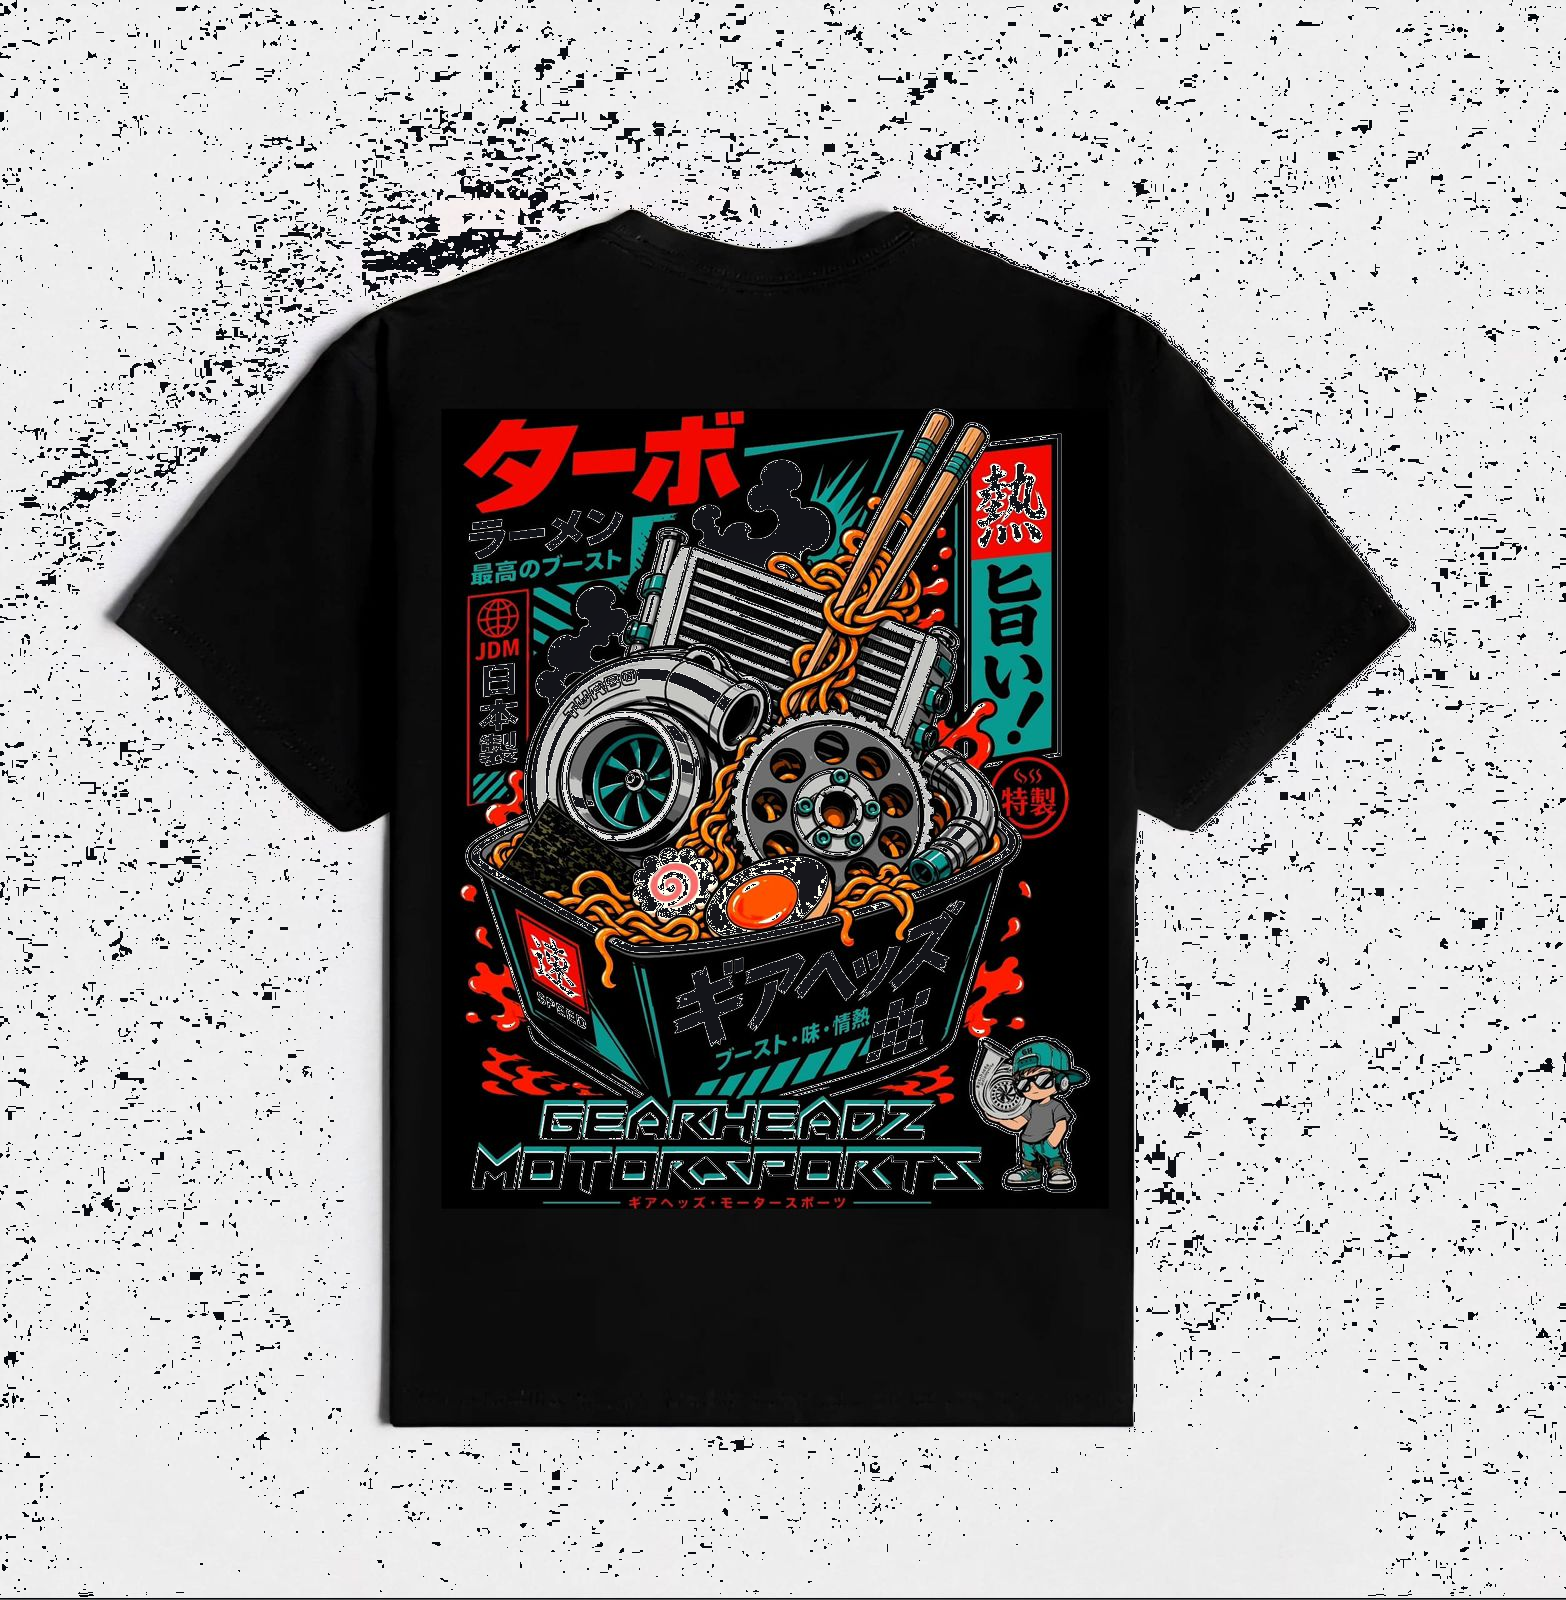
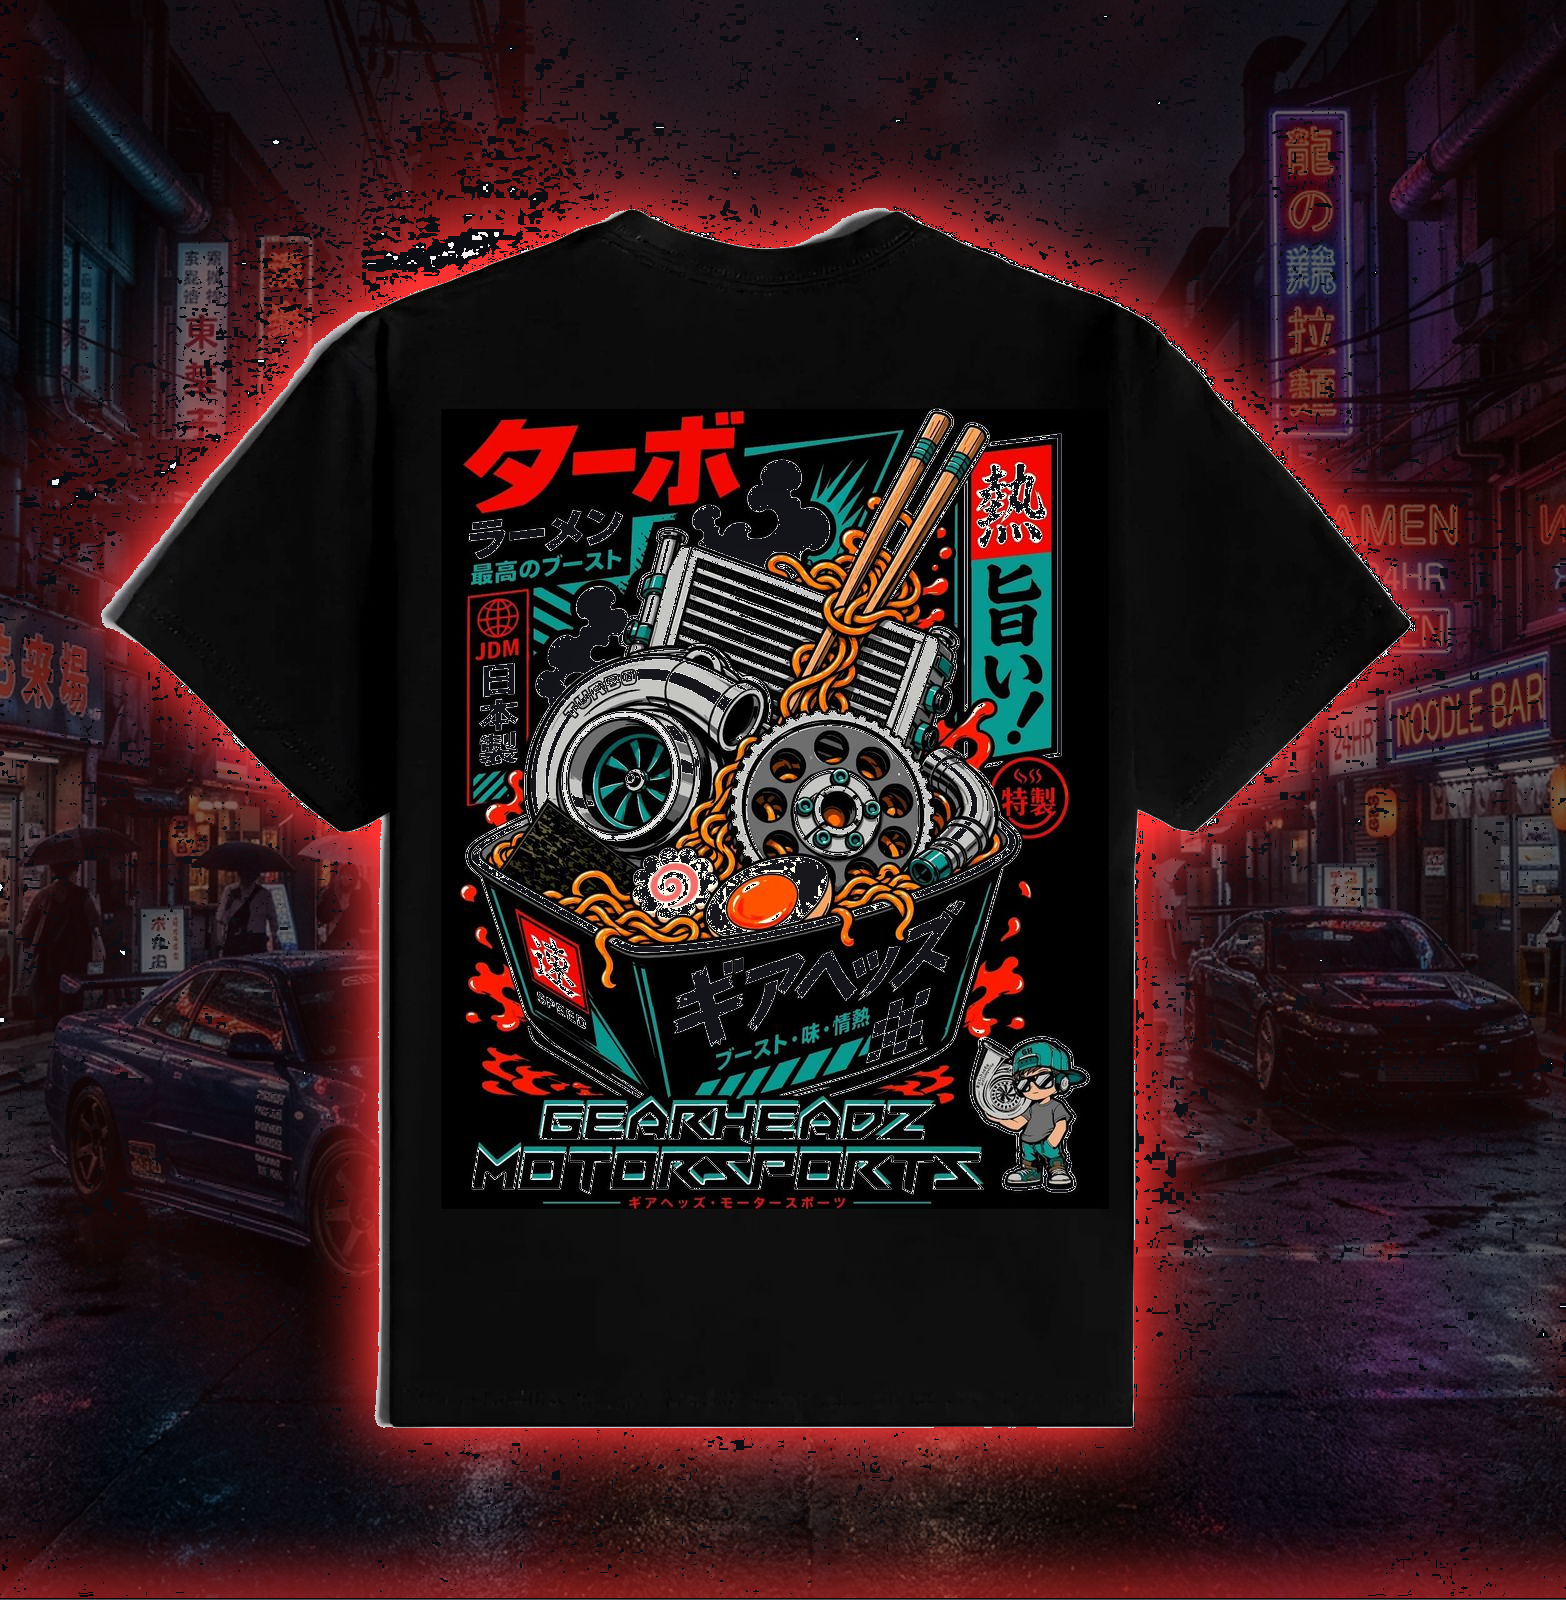
Add AI backgrounds to Boosted Bowl and JDM Legends

diff --git a/remove_flood.py b/remove_flood.py
@@ -1,0 +1,23 @@
+import os
+from PIL import Image, ImageDraw
+
+def remove_bg_flood(path):
+    img = Image.open(path).convert("RGBA")
+    
+    # Flood fill from top-left corner
+    ImageDraw.floodfill(img, (0, 0), (0, 0, 0, 0), thresh=80)
+    # Also top-right, just in case
+    w, h = img.size
+    ImageDraw.floodfill(img, (w-1, 0), (0, 0, 0, 0), thresh=80)
+    
+    out_path = path.replace('.png', '-clear.png')
+    img.save(out_path, "PNG")
+    print(f"Saved {out_path}")
+
+try:
+    remove_bg_flood('public/images/products/boosted-bowl.png')
+    remove_bg_flood('public/images/products/boosted-bowl-text.png')
+    remove_bg_flood('public/images/products/jdm-legends.png')
+    remove_bg_flood('public/images/products/jdm-legends-text.png')
+except Exception as e:
+    print(e)
